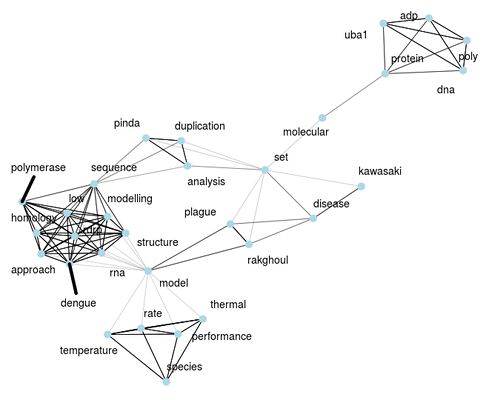
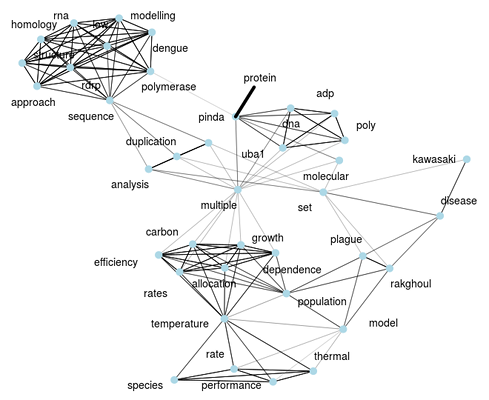
Added i) the carbon allocation efficiency paper and ii) a cookie floating message.

diff --git a/_layouts/default.html b/_layouts/default.html
@@ -12,6 +12,11 @@ layout: compress
   </head>
 
   <body>
+	<script type="text/javascript" id="cookieinfo"
+		src="//cookieinfoscript.com/js/cookieinfo.min.js"
+		data-close-text="Got it!">
+	</script>
+
 
     {% include browser-upgrade.html %}
     {% include masthead.html %}

diff --git a/_publications/8_Role_of_carbon.md b/_publications/8_Role_of_carbon.md
@@ -1,0 +1,44 @@
+---
+title: "<b>8\\.</b> 
+García-Carreras, B.<sup><a title='Corresponding author'>✉</a></sup>, 
+Sal, S., Padfield, D., <u>Kontopoulos, D.-G.</u>, 
+Bestion, E., Schaum, C.-E., Yvon-Durocher, G., and 
+Pawar, S.<sup><a title='Corresponding author'>✉</a></sup>
+(2018). **Role of carbon allocation efficiency in the temperature 
+dependence of autotroph growth rates.** 
+PNAS."
+collection: publications
+permalink: /publication/8_Role_of_carbon
+excerpt: '
+  [<span class="underline-on-hover" style="color:#FF6F6F">Abstract</span>](../publication/8_Role_of_carbon)
+\| [<span class="underline-on-hover" style="color:#FF6F6F">Full text</span>](https://doi.org/10.1073/pnas.1800222115)
+\| [<span class="underline-on-hover" style="color:#FF6F6F"><img src="../images/bibtex.svg">citation</span>](../bibtex/8_Role_of_carbon.bib)
+'
+---
+
+### Abstract:
+
+<p style='text-align: justify;'>
+Relating the temperature dependence of photosynthetic biomass 
+production to underlying metabolic rates in autotrophs is crucial for 
+predicting the effects of climatic temperature fluctuations on the 
+carbon balance of ecosystems. We present a mathematical model that links 
+thermal performance curves (TPCs) of photosynthesis, respiration, and 
+carbon allocation efficiency to the exponential growth rate of a 
+population of photosynthetic autotroph cells. Using experiments with 
+the green alga, <i>Chlorella vulgaris</i>, we apply the model to show that the 
+temperature dependence of carbon allocation efficiency is key to 
+understanding responses of growth rates to warming at both ecological 
+and longer-term evolutionary timescales. Finally, we assemble a dataset 
+of multiple terrestrial and aquatic autotroph species to show that the 
+effects of temperature-dependent carbon allocation efficiency on 
+potential growth rate TPCs are expected to be consistent across taxa. 
+In particular, both the thermal sensitivity and the optimal temperature 
+of growth rates are expected to change significantly due to temperature 
+dependence of carbon allocation efficiency alone. Our study provides a 
+foundation for understanding how the temperature dependence of carbon 
+allocation determines how population growth rates respond to temperature.
+</p>
+
+[<span class="underline-on-hover" style="color:#FF6F6F">Full text</span>](https://doi.org/10.1073/pnas.1800222115)
+\| [<span class="underline-on-hover" style="color:#FF6F6F"><img src="../images/bibtex.svg">citation</span>](../bibtex/8_Role_of_carbon.bib)
